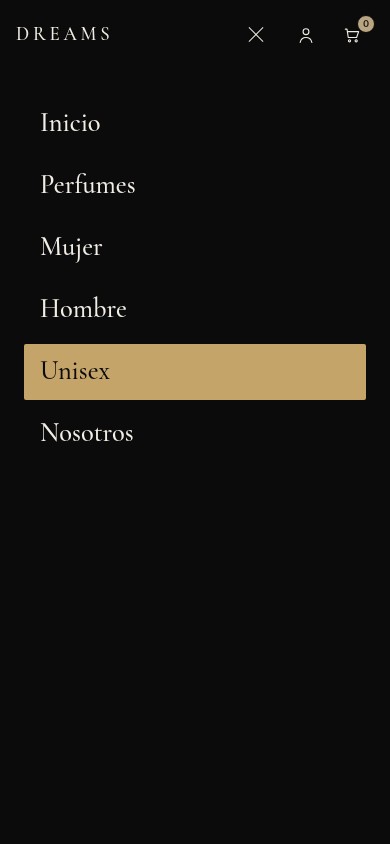
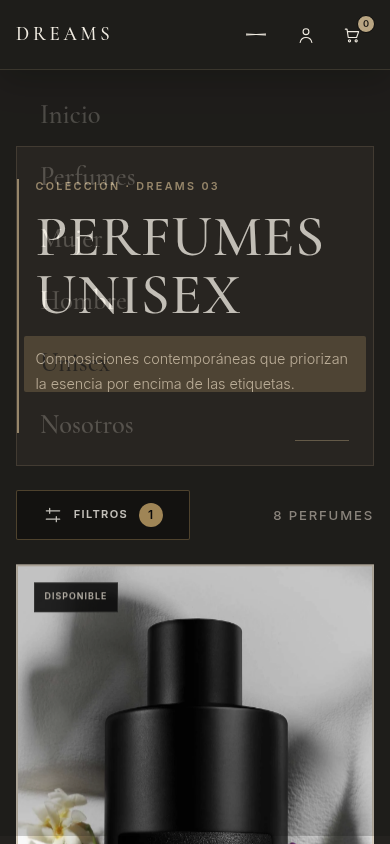
Record final official release and separate verified animated preview

diff --git a/docs/navigation_filters.md b/docs/navigation_filters.md
@@ -13,20 +13,22 @@ Branch `codex/navigation-filter-dialog`, dependiente de PR44/b33a2ee. Base ofici
 
 ## Validación y publicación comprobadas
 
-- Commit publicado: `805fcfcb9aa8700fd292252b41b0430e300043b5`; PR49, base PR44/b33a2ee. CI https://github.com/facumartea/dreams/actions/runs/38764353797 SUCCESS.
+- Commit publicado: `cd71d128b6e3d54cea801efd48d45c689f64d6d4`; PR49, base PR44/b33a2ee. CI https://github.com/facumartea/dreams/actions/runs/38767019396 SUCCESS.
 - 133/133 tests, check50 archivos, auditoría producción sin vulnerabilidades conocidas; builds Workers y Pages correctos. Helpers nuevos/modelo/proxy <=20 líneas comprobados con AST. No se declara cobertura global completa.
 - QA local Chromium390x844/1440x900 y remota preview PASS. Oficial PASS en esos dos tamaños: cuatro catálogos, menú/una sección activa, cada filtro y combinaciones, limpieza, orden, vacío, recarga/historial, borrador descartado, Escape/Tab/foco/scroll y carrito visitante persistente/pantalla de acceso. Sin errores JS en la ejecución completa.
 - Primera comprobación oficial agotó espera de carga; SHA256 de HTML/scripts servidos coincide y segunda ejecución completa pasó. Causa transitoria no confirmada; no se atribuye a un fallo corregido sin evidencia.
-- Preview con fallos de red controlados PASS: error/reintento de marcas/productos, selección asíncrona, resultados tardíos reales descartados. Geometría y movimiento reducido PASS en320x640/390x480/844x390/1440x900, estados hover/selección/foco verificados.
+- Preview con fallos de red controlados PASS: error/reintento de marcas/productos, selección asíncrona, resultados tardíos reales descartados. Geometría y movimiento reducido PASS en320x640/390x480/844x390/1440x900, estados hover/selección/foco verificados. Ajuste final de especificidad mantiene pulsación distinta en escritorio dentro de las tres categorías: QA en preview y oficial PASS. Suite focalizada22 y CI del commitcd71d12 verdes; QA oficial completa repetida tras ese cambio PASS.
 - Capturas oficiales en `docs/evidence/navigation/`. Sin Safari/iPhone físico: WebKit descargado pero no ejecutable por bibliotecas del host faltantes. Teclado móvil real, login/Admin autenticados y CWV no verificados; no necesarios para cambios de permisos porque no se modificaron.
 - Referencias visuales mencionadas no estaban adjuntas; comparación con especificación y sistema DREAMS existente.
 
 ## Deployment y recuperación
 
[2 lines of base64/hex data omitted]
 
-Preview final: b3f28d4a-393e-407b-bcee-da5b9cd83eca SUCCESS, https://b3f28d4a.dreams-perfumes.pages.dev y alias https://official-direct-checkout.dreams-perfumes.pages.dev (origen previamente permitido). Oficial: e3399fc9-bc1d-45d8-949f-9e35a47f1baf SUCCESS, https://dreams-perfumes.pages.dev/. Mismo artefacto805fcfc, backend inmutable d5df723d/ec04a35. Etiquetas branch de Pages son del Direct Upload; SHA identifica la fuente real.
+Preview final: 9703fc6d-ea4e-4230-9704-93abb8d5d6eb SUCCESS, https://9703fc6d.dreams-perfumes.pages.dev y alias https://official-direct-checkout.dreams-perfumes.pages.dev (origen previamente permitido). Oficial: 82060492-8f22-4595-81a0-8cb7dc78d526 SUCCESS, https://dreams-perfumes.pages.dev/. Mismo artefactocd71d12, backend inmutable d5df723d/ec04a35. Etiquetas branch de Pages son del Direct Upload; SHA identifica la fuente real.
 
 Rollback comprobado antes de publicación: deployment anterior ac755bbe-f339-422a-91ef-006426abf0bf SUCCESS, https://ac755bbe.dreams-perfumes.pages.dev/ y health200/databaseOK. Ejecutar con acceso Cloudflare autorizado POST `/accounts/9f3d7af60fcb0c2b4fff8570843588f9/pages/projects/dreams-perfumes/deployments/ac755bbe-f339-422a-91ef-006426abf0bf/rollback`, después verificar canonical_deployment, portada y catálogo. No requiere restaurar Railway ni secretos. Procedimiento disponible, no ejecutado; no se borraron deployments.
 
 Auth/PR48, datos, DNS, roles, checkout y assets del hero intactos respecto a c83b148. Video permanece exclusivamente en la preview animada, cuya nueva dirección se configura en rama separada. Regla duradera de publicación oficial en AGENTS.md.
+
+Preview animada separada: https://dreams-preview.pages.dev/ (PR50, Pages00bbbec5, proxy644afbb, runtime d938a97/config6e5be7b8). URL anterior conservada. No se incorporó su video ni código en esta PR49. Ver docs/animated_pages.md en rama codex/animated-preview-pages para límites de Auth y recuperación.

diff --git a/CURRENT_STATE.md b/CURRENT_STATE.md
@@ -2,15 +2,15 @@
 
 SEGUÍ EXACTAMENTE DESDE CURRENT_STATE.md.
 
-Oficial https://dreams-perfumes.pages.dev/ publicada con 805fcfcb9aa8700fd292252b41b0430e300043b5, Pages e3399fc9-bc1d-45d8-949f-9e35a47f1baf SUCCESS. Rama codex/navigation-filter-dialog, PR49 sobre PR44/b33a2ee, sin merge. Backend inmutable d5df723d/ec04a35 conservado; PR48/052b224/Auth y video EXCLUIDOS.
+Oficial https://dreams-perfumes.pages.dev/ publicada con cd71d128b6e3d54cea801efd48d45c689f64d6d4, Pages 82060492-8f22-4595-81a0-8cb7dc78d526 SUCCESS. Rama codex/navigation-filter-dialog, PR49 sobre PR44/b33a2ee, sin merge. Backend inmutable d5df723d/ec04a35 conservado; PR48/052b224/Auth y video EXCLUIDOS.
 
 Menú móvil uniforme dorado, sin subrayados, estado activo por fondo/contraste y foco visible; un botón Filtros abre diálogo accesible con borrador/aplicar/descartar, búsqueda/marcas/radios/precio/orden, URL/historial y protección contra respuestas atrasadas. Helpers nuevos <=20 líneas.
 
-133 tests PASS, check50, audit producción sin vulnerabilidades conocidas, builds Workers/Pages correctos. CI del commit publicado 38764353797 SUCCESS. QA local y remota en preview; QA oficial Chromium390x844/1440x900 PASS: cuatro catálogos, filtros combinados/orden/limpieza/vacíos, URL/recarga/historial, foco/Escape/scroll, carrito visitante y pantalla de acceso sin errores JS. Primera comprobación oficial agotó espera de carga; archivos servidos coinciden por SHA256 y repetición completa PASS, causa transitoria no confirmada. Inyección de errores/red y respuestas tardías validada en preview; viewports320/390/844/1440 y movimiento reducido. Safari/WebKit no ejecutado por bibliotecas del host faltantes; no dispositivo físico ni login autenticado verificados.
+133 tests PASS, check50, audit producción sin vulnerabilidades conocidas, builds Workers/Pages correctos. CI del commit publicado 38767019396 SUCCESS. QA local y remota en preview; QA oficial Chromium390x844/1440x900 PASS: cuatro catálogos, filtros combinados/orden/limpieza/vacíos, URL/recarga/historial, foco/Escape/scroll, carrito visitante y pantalla de acceso sin errores JS. Primera comprobación oficial agotó espera de carga; archivos servidos coinciden por SHA256 y repetición completa PASS, causa transitoria no confirmada. Inyección de errores/red y respuestas tardías validada en preview; viewports320/390/844/1440 y movimiento reducido. Safari/WebKit no ejecutado por bibliotecas del host faltantes; no dispositivo físico ni login autenticado verificados.
 
 Rollback previo ac755bbe-f339-422a-91ef-006426abf0bf retenido, SUCCESS/health200 comprobados; endpoint de rollback documentado, no ejecutado. Docs/evidencia: docs/navigation_filters.md. PUSH y DEPLOY OFICIAL: SÍ. Sin datos, Auth, roles, DNS ni video modificados; sin porcentaje global inventado.
 
-Nueva regla duradera en AGENTS.md: destino por defecto oficial, salvo «solo preview»; experimentos anteriores excluidos. Nueva tarea separada en codex/animated-preview-pages desde PR43/4c50b01: Pages dreams-preview creado en cuenta correcta, backend animado heredado d938a97 con origen nuevo y anterior. Configuración y QA en curso; no declarar el nuevo hostname verificado todavía. Próximo: terminar el nuevo front door animado y registrar evidencia independiente.
+Nueva regla duradera en AGENTS.md: destino por defecto oficial, salvo «solo preview»; experimentos anteriores excluidos. Preview independiente completada en codex/animated-preview-pages/PR50 desde PR43/4c50b01: https://dreams-preview.pages.dev/, Pages00bbbec5/644afbb, runtime animado d938a97 y configuración6e5be7b8. QA móvil/escritorio video completo/catálogo/carrito/checkout académico/cookies/noindex/Origin PASS. Login real/refresh pendientes por credenciales no disponibles; Worker anterior activo. Documentación en docs/animated_pages.md de PR50; no copiar su video a esta rama. Próximo: revisión del usuario en ambas URLs y completar Auth sólo mediante acceso seguro independiente.
 
 # Oficial checkout directo publicada — 2026-10-13
 

diff --git a/CHANGELOG.md b/CHANGELOG.md
@@ -4,6 +4,7 @@
 - Menú móvil con áreas uniformes/dorado; navegación superior sin subrayado, foco con contorno y paletas de escritorio preservadas.
 - Un botón Filtros/conteo abre diálogo modal con borrador separado, radios semánticos, búsqueda de marca, precio/orden, aplicar/limpiar/cancelar, foco/scroll/historial y protección contra respuestas atrasadas.
 - Módulo de estado público añadido a Pages; proxy descompuesto en funciones <=20líneas, conservando pruebas de autorización/cookies/errores/redirects/cache. Tests nuevos de estado, serialización y respuestas atrasadas.
+- Pulsación de escritorio en categorías diferenciada mediante corrección acotada de especificidad; QA preview/oficial PASS. Publicado cd71d12, Pages82060492.
 - 133 tests, check50, builds Workers/Pages y CI PASS. Preview y oficial publicadas; QA remota móvil/escritorio PASS. Rollback anterior conservado. Preferencia de publicación oficial registrada; configuración de nueva preview en rama independiente. Sin datos/Auth/DNS/video modificados en la oficial.
 
 # 2026-10-13 — Checkout directo oficial publicado y verificado

diff --git a/PLAN.md b/PLAN.md
@@ -2,9 +2,9 @@
 
 - Aislamiento de oficial/PR48 y cambio visual: COMPLETADOS.
 - Tests133/check50/audit/builds/CI, QA local/preview y oficial390/1440: PASS.
-- Commit805fcfc/push/PR49 y Pages oficial e3399fc9: COMPLETADOS. Rollback ac755bbe retenido, no ejecutado.
+- Commitcd71d12/push/PR49 y Pages oficial 82060492: COMPLETADOS. Rollback ac755bbe retenido, no ejecutado.
 - Safari físico/login autenticado/CWV: NO VERIFICADOS; no se cambiaron Auth/Admin.
-- Preferencia oficial registrada. Nueva dirección preview animada en rama separada: EN CURSO; ver docs de esa rama. No video en oficial ni merges.
+- Preferencia oficial registrada. Nueva dirección preview animada en PR50: PUBLICADA y verificada; Auth autenticado pendiente, ver docs de esa rama. No video en oficial ni merges.
 
 # Resultado oficial — 2026-10-13
 
